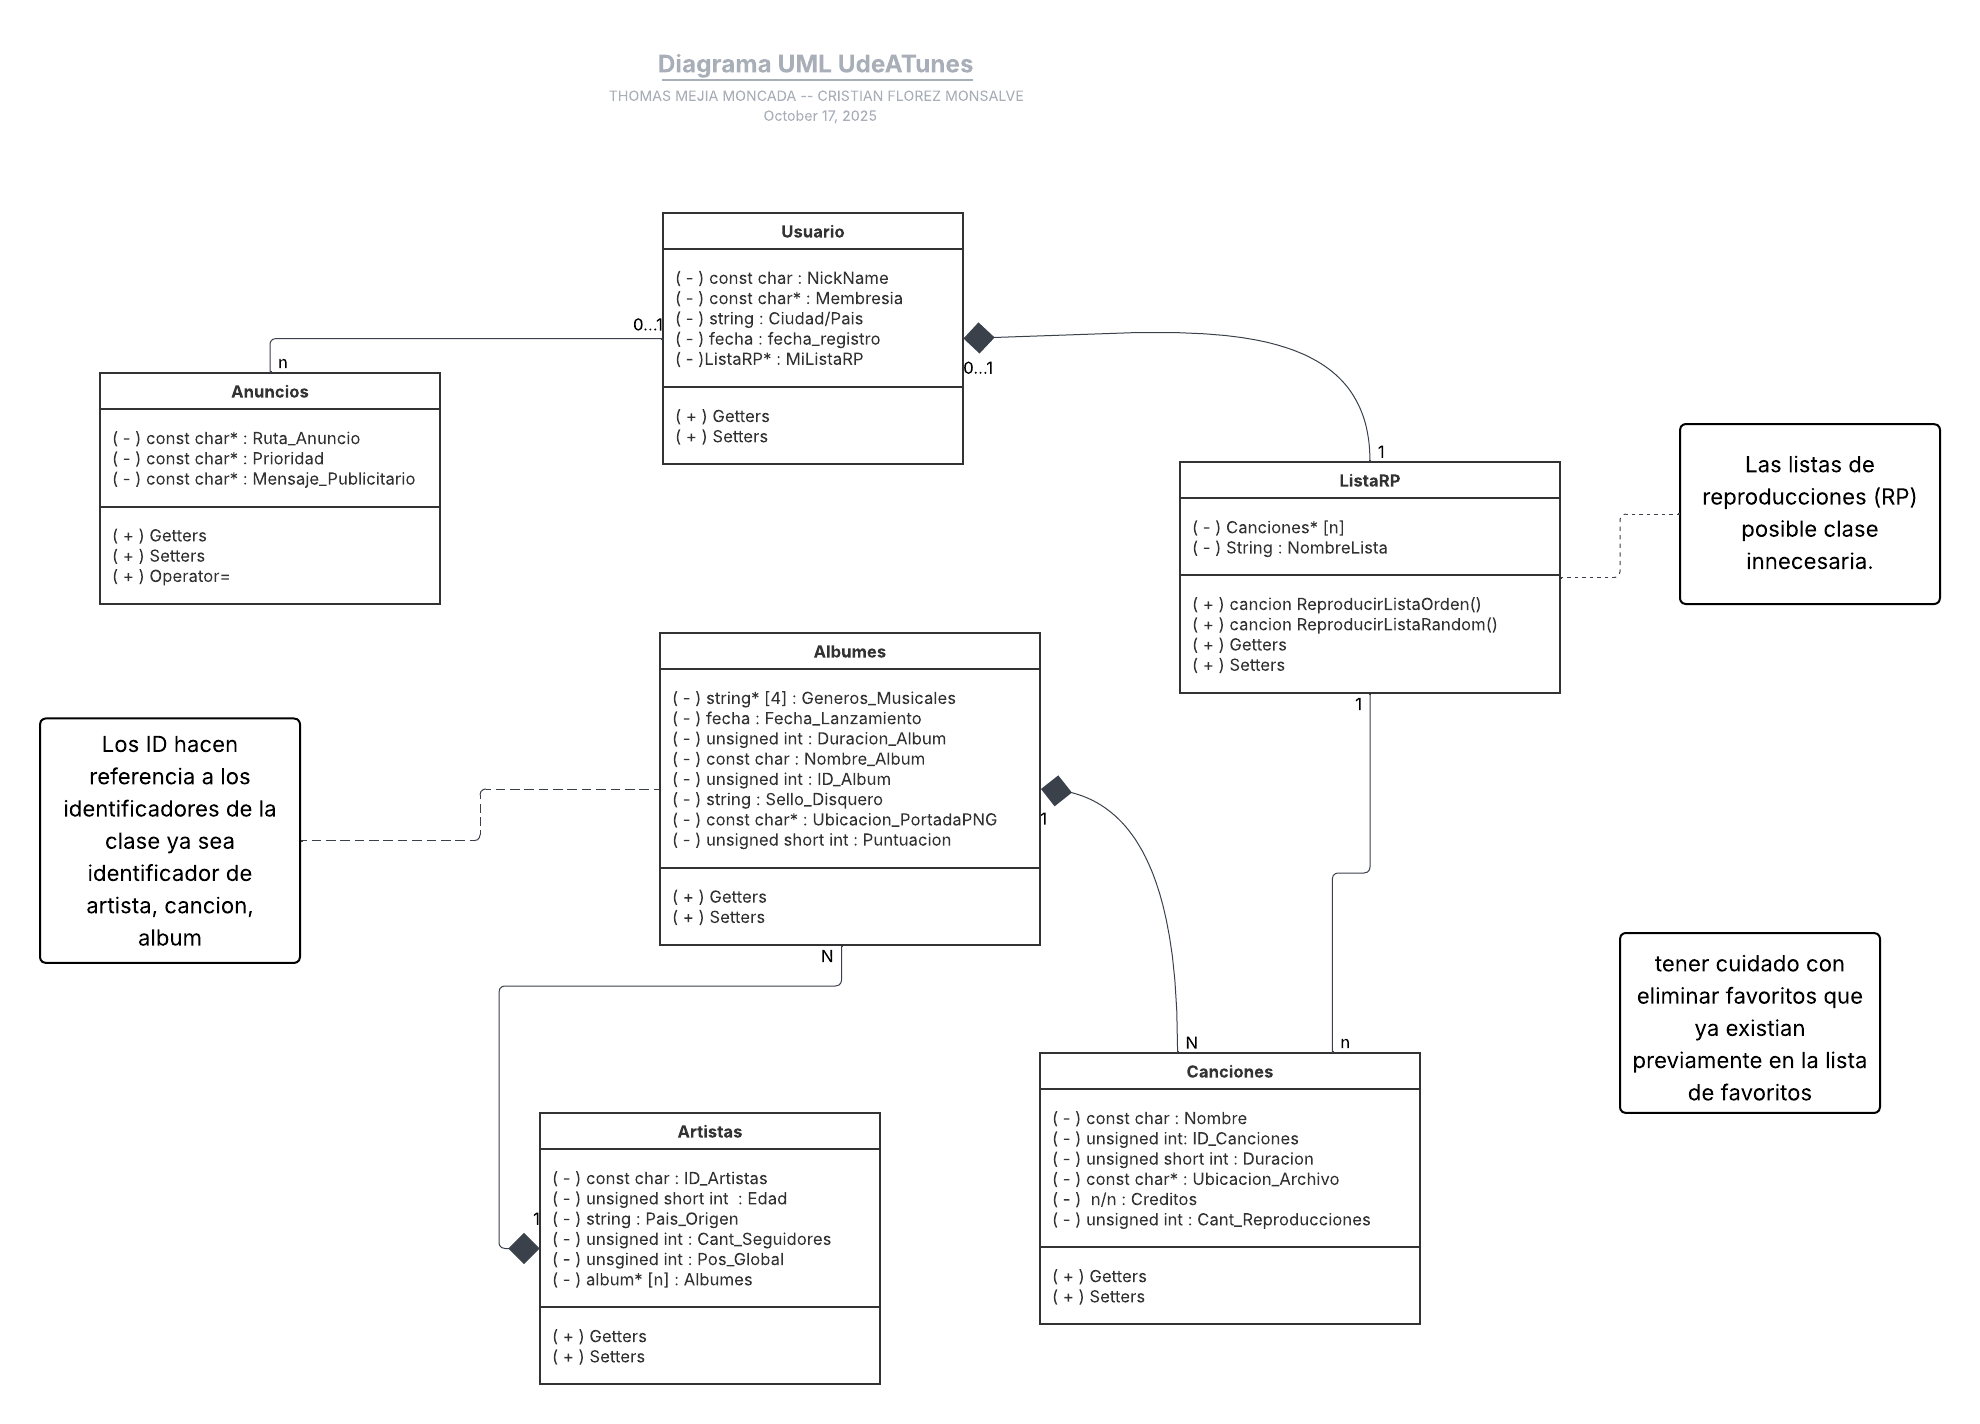
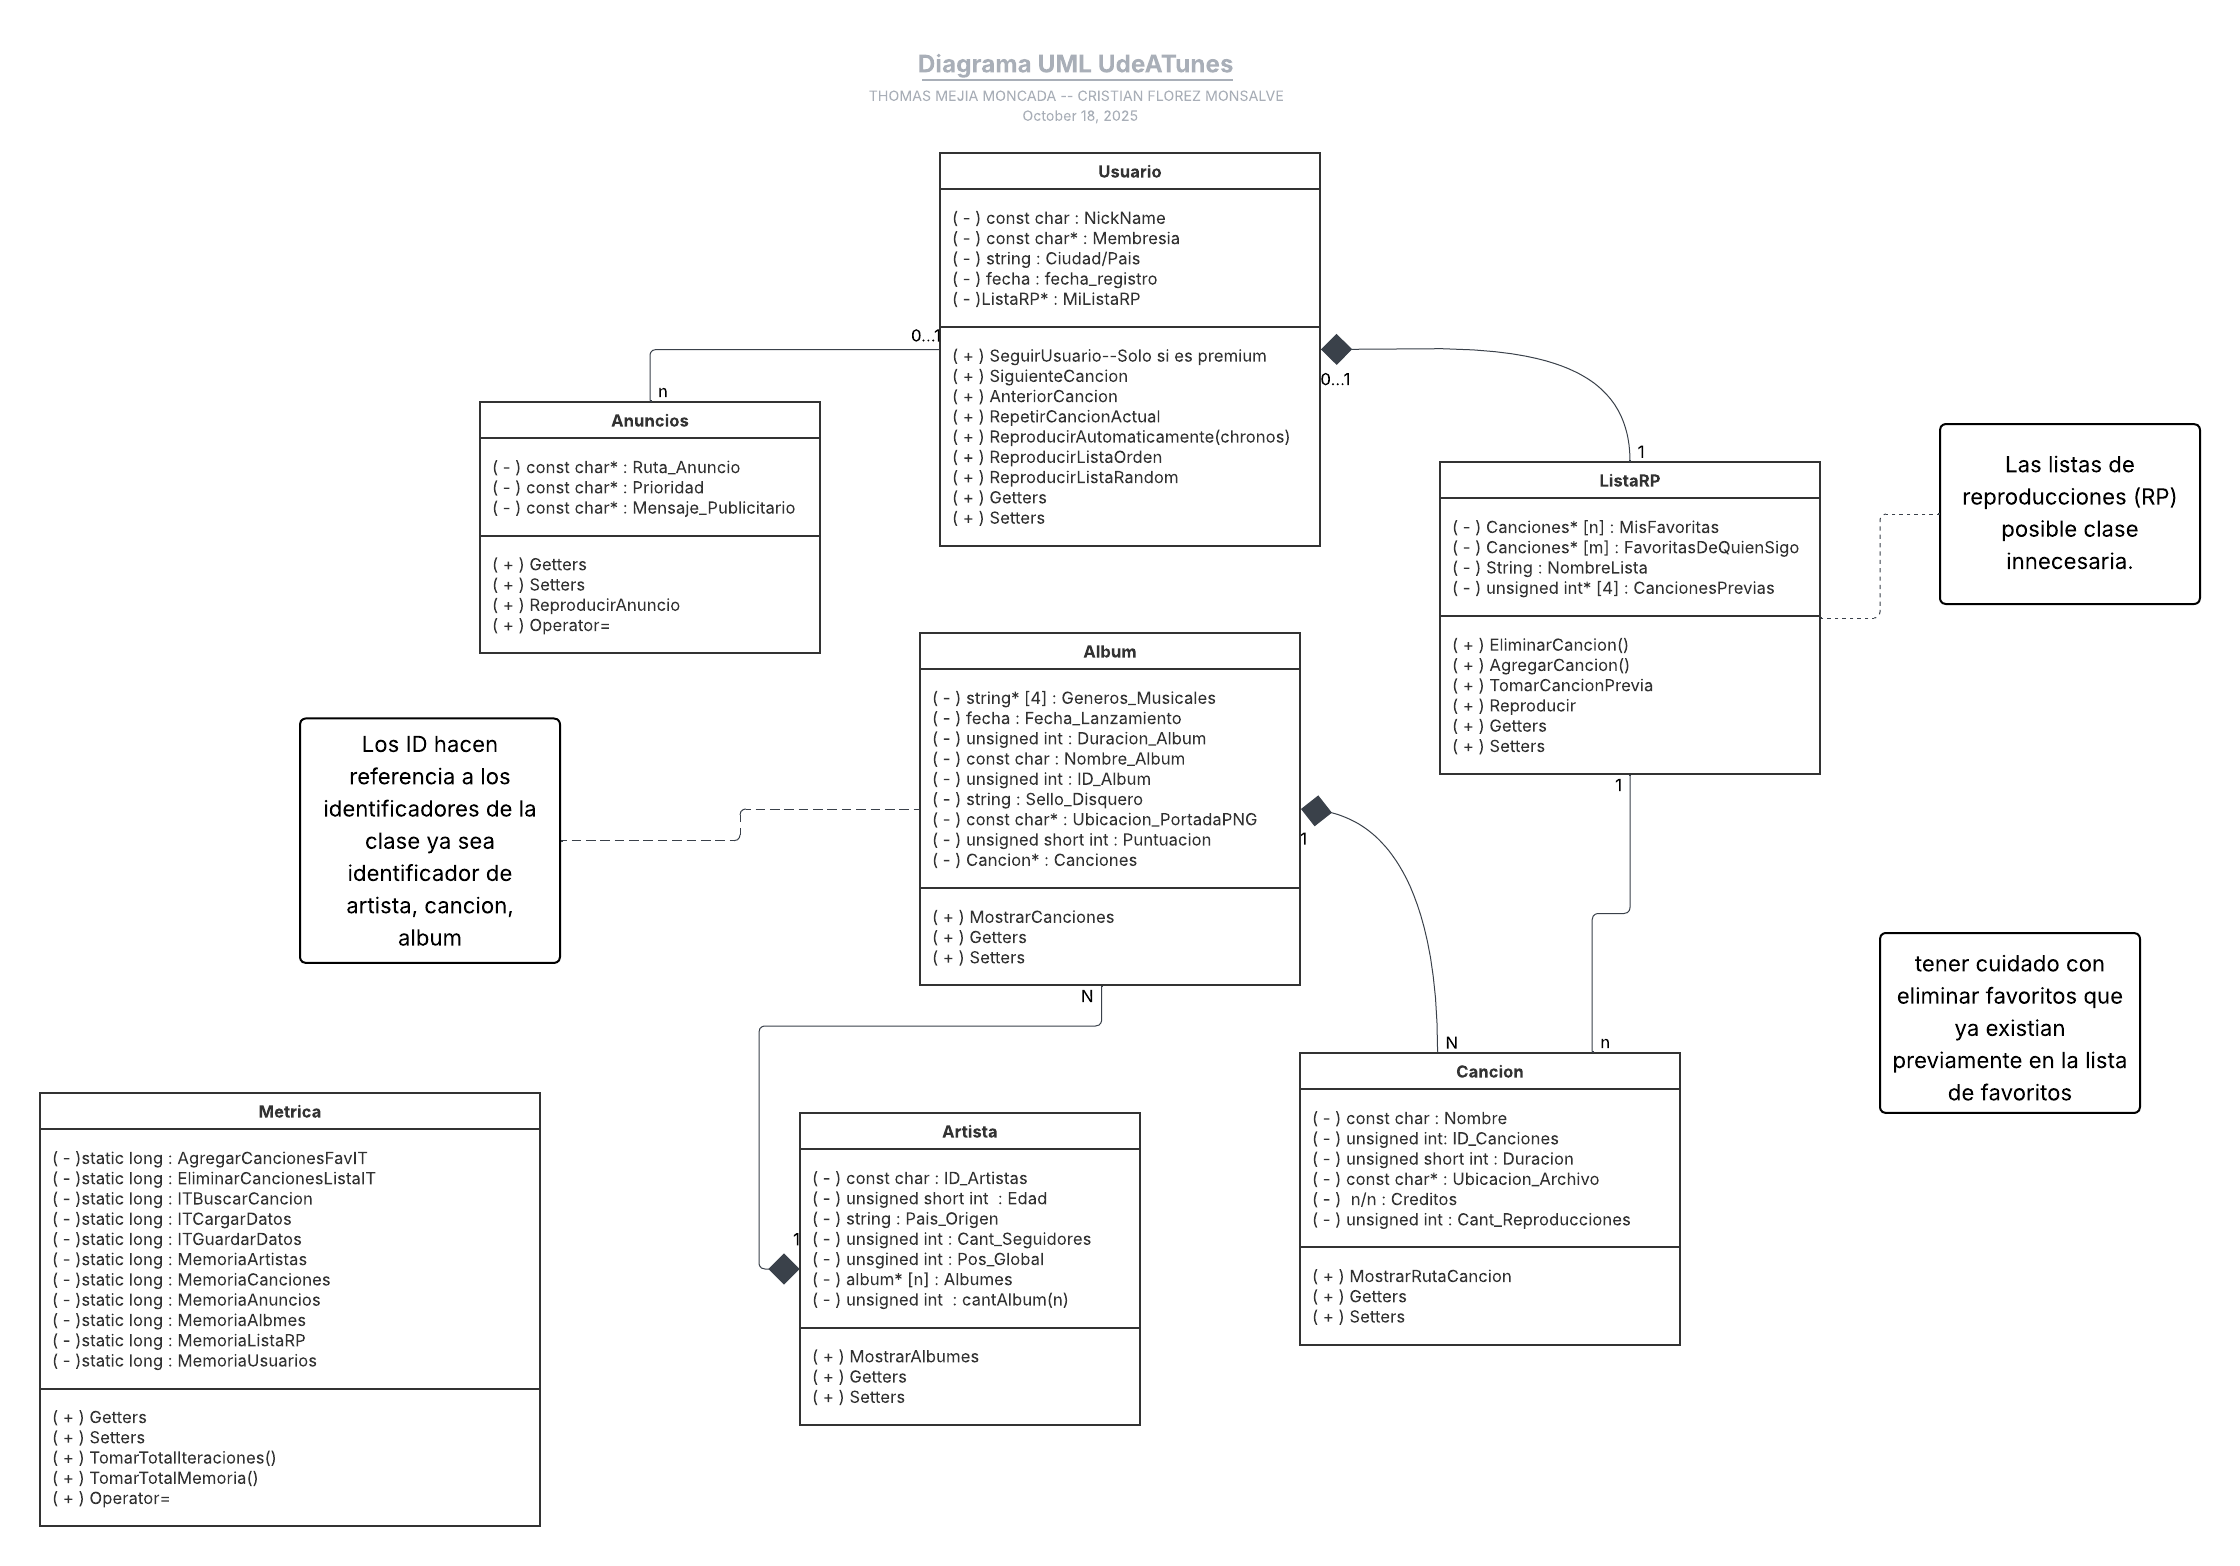
Actualizacion diagrama de clase con metodos y nueva clase metricas para la medicion de recursos

diff --git a/Desafio2-Code/main.cpp b/Desafio2-Code/main.cpp
@@ -1,0 +1,9 @@
+#include <iostream>
+
+using namespace std;
+
+int main()
+{
+    cout << "Hello World!" << endl;
+    return 0;
+}
